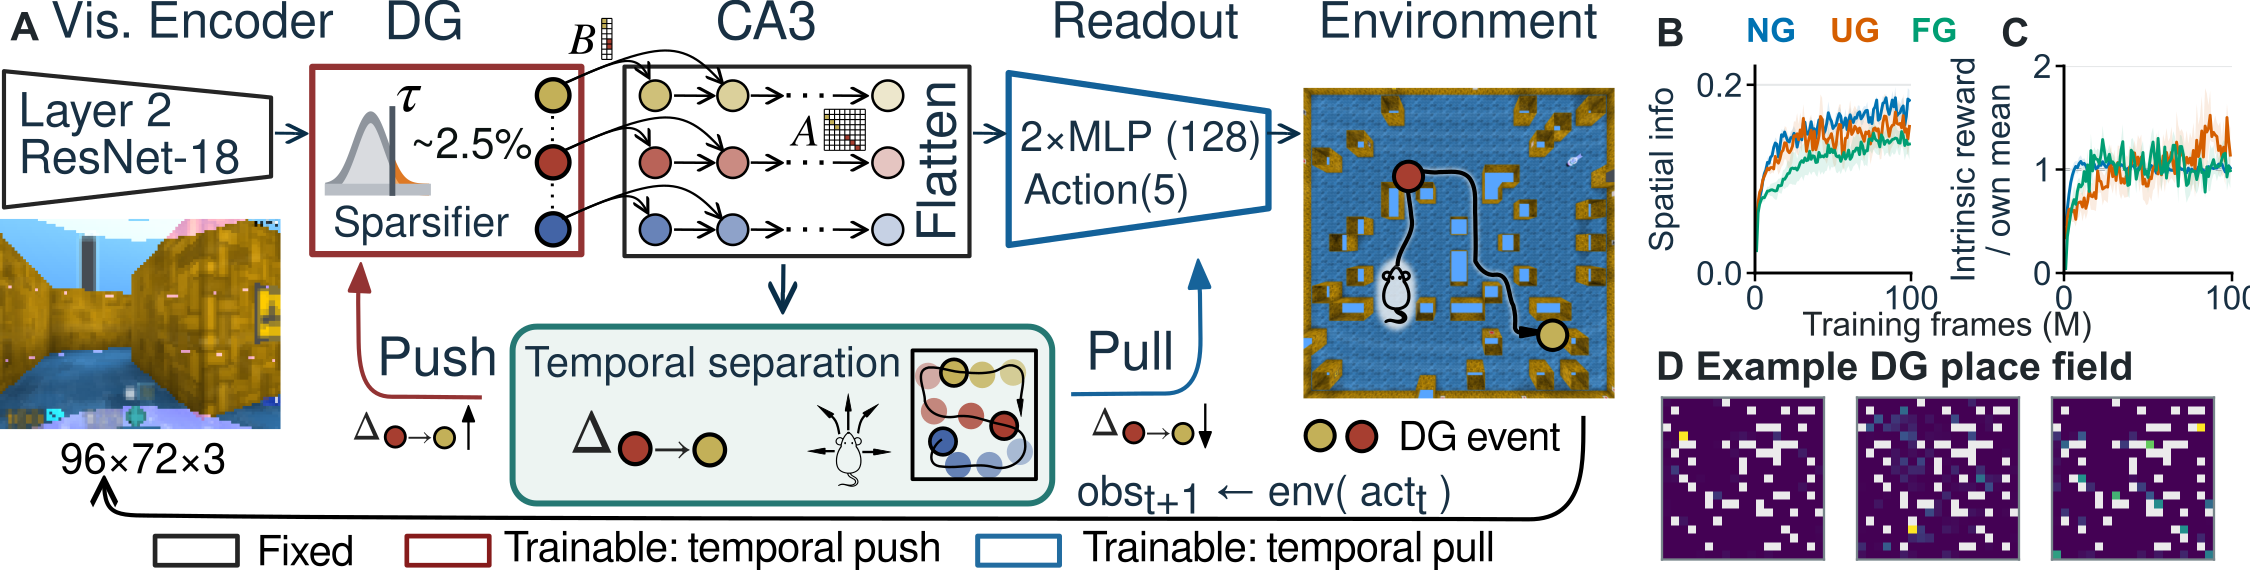
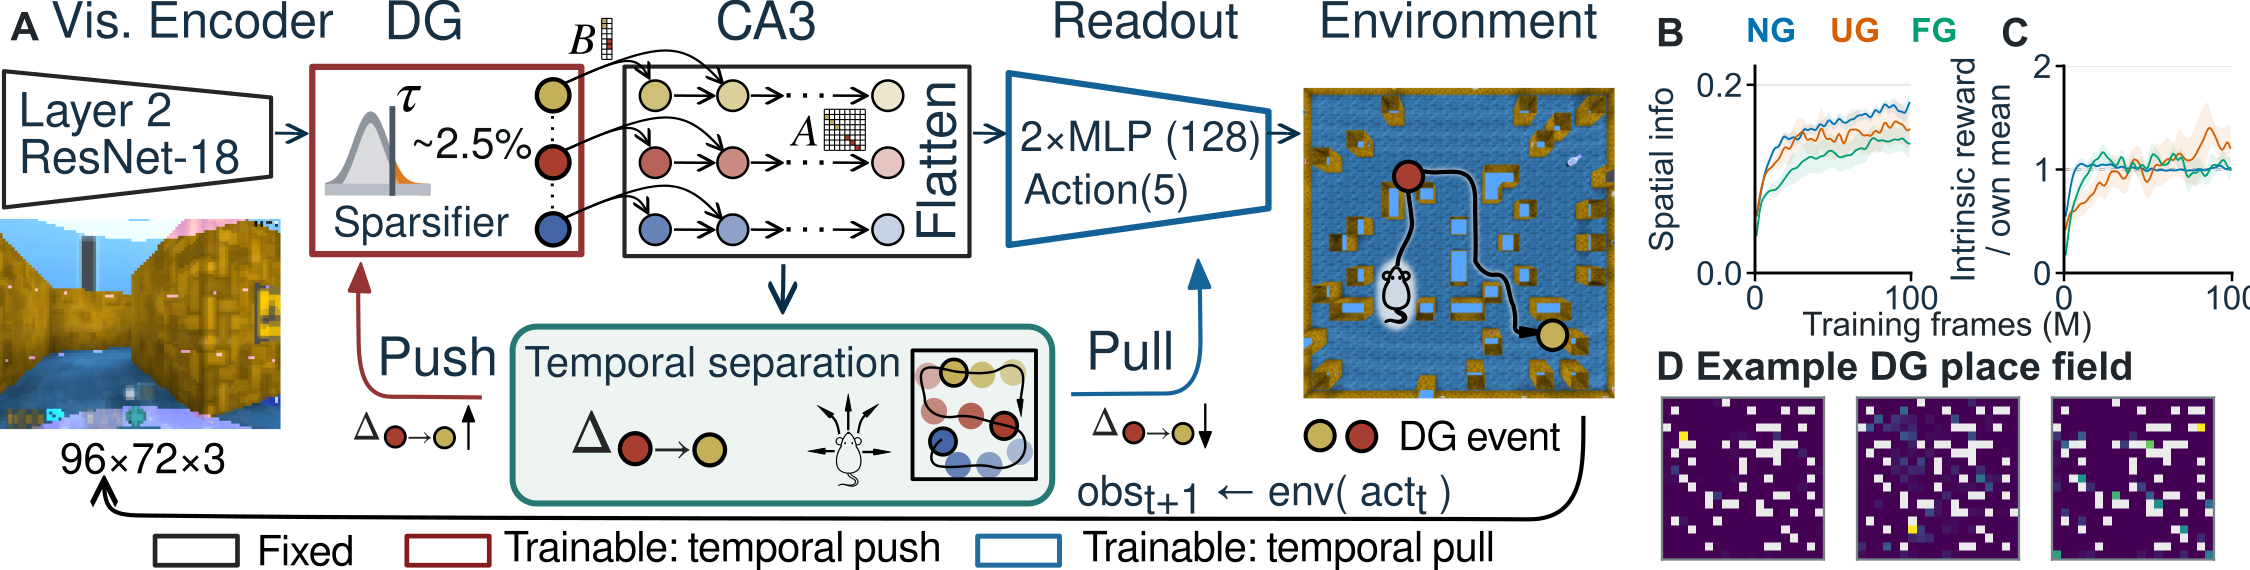
Smooth and thin Figure 1 training courses

Changed region(s): [[0.9022, 0.2088, 0.9956, 0.3877], [0.7778, 0.1789, 0.8711, 0.3579]]

diff --git a/07_abstracts/cosyne_2027_submission_draft/figure1_candidates/render_architecture_v3_course_candidate.py b/07_abstracts/cosyne_2027_submission_draft/figure1_candidates/render_architecture_v3_course_candidate.py
@@ -22,6 +22,7 @@ from matplotlib.ticker import LogFormatterMathtext, NullLocator
 import numpy as np
 import pandas as pd
 from PIL import Image
+from scipy.ndimage import gaussian_filter1d
 
 from render_architecture_with_fields import DRAFT, HERE, style
 from render_submission_panels import COLOR, SOURCES
@@ -35,6 +36,8 @@ ATLAS = HERE / "full_seed_atlases_minmax/c15_temporal_s123.png"
 UNIT_METRICS = HERE / "full_seed_atlases/terminal_unit_metrics.csv"
 SEED_METRICS = HERE / "full_seed_atlases/terminal_seed_metrics.csv"
 REWARD = ROOT / "06_experiments/results/cosyne_2027_intrinsic_reward_course/arm_summaries.csv"
+REWARD_SEEDS = REWARD.with_name("interpolated_by_seed.csv")
+ONLINE_SEEDS = ROOT / "06_experiments/results/cosyne_2027_online_wandb/interpolated_by_seed.csv"
 UNITS = (4, 1, 11)
 PEAK_CELLS_XY = {4: (2, 4), 1: (6, 15), 11: (17, 3)}
 FAMILIES = (("C01", "inapplicable", "NG"),
@@ -45,6 +48,7 @@ SVG_NS = "http://www.w3.org/2000/svg"
 XLINK_NS = "http://www.w3.org/1999/xlink"
 ARCHITECTURE_WIDTH_IN = 5.4085569
 VIS_TITLE_SHIFT_MM = 3.8
+SMOOTHING_SIGMA_M_FRAMES = 1.5
 
 
 def sha256(path: Path) -> str:
@@ -107,12 +111,14 @@ def inline_architecture(composite_svg: Path) -> None:
 
 
 def course(ax: plt.Axes, table: pd.DataFrame, metric: str, *, log: bool,
-           relative_to_mean: bool = False, thin_lines: bool = False) -> dict[str, float]:
+           relative_to_mean: bool = False, thin_lines: bool = False,
+           seed_table: pd.DataFrame | None = None) -> dict[str, float]:
     """Plot means and SEM, optionally scaled by each condition's own mean.
 
     The denominator is the mean of the 99 plotted five-seed means. Scaling
-    the mean and SEM by the same positive constant preserves the original
-    uncertainty bands and the within-condition trajectory.
+    the mean and SEM by the same positive constant preserves the within-
+    condition trajectory. When requested, smoothing happens separately for
+    each seed before re-aggregating the mean and SEM.
     """
     normalizers = {}
     if relative_to_mean:
@@ -128,6 +134,27 @@ def course(ax: plt.Axes, table: pd.DataFrame, metric: str, *, log: bool,
         mean = rows["mean"].to_numpy()
         sem = rows["sem"].to_numpy()
         denominator = float(np.mean(mean)) if relative_to_mean else 1.0
+        if seed_table is not None:
+            if not np.allclose(np.diff(x), 1, rtol=0, atol=1e-9):
+                raise ValueError(f"Smoothing requires a one-million-frame grid: {family}")
+            seeds = seed_table[(seed_table.family == family) &
+                               (seed_table.metric == metric)]
+            if "encoder_credit" in seeds:
+                seeds = seeds[(seeds.encoder_credit == "temporal") &
+                              (seeds.worker_bonus == worker)]
+            curves = seeds.pivot(index="env_steps", columns="seed", values="value")
+            if (curves.shape != (99, 5) or
+                    not np.array_equal(curves.index.to_numpy(), rows.env_steps.to_numpy()) or
+                    not np.all(np.isfinite(curves.to_numpy()))):
+                raise ValueError(f"Incomplete seed curves: {family}, {metric}")
+            if (not np.allclose(curves.mean(axis=1), mean, rtol=0, atol=1e-8) or
+                    not np.allclose(curves.sem(axis=1), sem, rtol=0, atol=1e-8)):
+                raise ValueError(f"Seed curves disagree with archived summary: {family}, {metric}")
+            smoothed = gaussian_filter1d(curves.to_numpy(),
+                                         sigma=SMOOTHING_SIGMA_M_FRAMES,
+                                         axis=0, mode="nearest")
+            mean = smoothed.mean(axis=1)
+            sem = smoothed.std(axis=1, ddof=1) / np.sqrt(smoothed.shape[1])
         if not np.isfinite(denominator) or denominator <= 0:
             raise ValueError(f"Invalid reward normalization: {family}")
         normalizers[family] = denominator
@@ -135,10 +162,10 @@ def course(ax: plt.Axes, table: pd.DataFrame, metric: str, *, log: bool,
         sem = sem / denominator
         if log and np.any(mean - sem <= 0):
             raise ValueError(f"Log course has nonpositive uncertainty bound: {family}")
-        ax.plot(x, mean, color=COLOR[family], lw=0.7 if thin_lines else 1.15,
+        ax.plot(x, mean, color=COLOR[family], lw=0.45 if thin_lines else 1.15,
                 label=label)
         ax.fill_between(x, mean - sem, mean + sem,
-                        color=COLOR[family], alpha=0.12 if thin_lines else 0.17,
+                        color=COLOR[family], alpha=0.10 if thin_lines else 0.17,
                         linewidth=0)
     ax.set_xlim(0, 100)
     ax.set_xticks((0, 100))
@@ -209,6 +236,8 @@ def main(*, relative_reward: bool = False) -> None:
     metrics = verify_selection()
     online = pd.read_csv(SOURCES["online"])
     reward = pd.read_csv(REWARD)
+    online_seeds = pd.read_csv(ONLINE_SEEDS) if relative_reward else None
+    reward_seeds = pd.read_csv(REWARD_SEEDS) if relative_reward else None
     tiles = field_tiles()
 
     fig = plt.figure(figsize=SIZE_IN, facecolor="white")
@@ -233,7 +262,7 @@ def main(*, relative_reward: bool = False) -> None:
     ax_info = fig.add_axes([info_left / SIZE_IN[0], 0.99 / 1.9,
                             info_width / SIZE_IN[0], course_height / 1.9])
     course(ax_info, online, "spatial_information", log=False,
-           thin_lines=relative_reward)
+           thin_lines=relative_reward, seed_table=online_seeds)
     if relative_reward:
         ax_info.set_ylabel("Spatial info", fontsize=8)
     legend = ((5.82, 6.10, 6.37), 1.84) if relative_reward else (
@@ -251,7 +280,8 @@ def main(*, relative_reward: bool = False) -> None:
                               0.56 / SIZE_IN[0], course_height / 1.9])
     reward_normalizers = course(ax_reward, reward, "intrinsic_mean", log=True,
                                 relative_to_mean=relative_reward,
-                                thin_lines=relative_reward)
+                                thin_lines=relative_reward,
+                                seed_table=reward_seeds)
     fig.text(6.49 / SIZE_IN[0], 0.81 / 1.9, "Training frames (M)",
              ha="center", va="center", fontsize=8, color="#20272C")
 
@@ -303,6 +333,18 @@ def main(*, relative_reward: bool = False) -> None:
                                        ATLAS, UNIT_METRICS, SEED_METRICS)},
     }
     if relative_reward:
+        manifest["course_smoothing"] = {
+            "applies_to": ["B spatial information", "C intrinsic reward"],
+            "method": "Gaussian filter on each seed's 1-million-frame grid before recomputing mean and SEM",
+            "sigma_million_frames": SMOOTHING_SIGMA_M_FRAMES,
+            "edge_mode": "nearest",
+            "line_width_points": 0.45,
+            "band_alpha": 0.10,
+        }
+        manifest["source_sha256"].update({
+            str(path.relative_to(ROOT)): sha256(path)
+            for path in (ONLINE_SEEDS, REWARD_SEEDS)
+        })
         manifest["reward_display"] = {
             "transformation": "five-seed mean and SEM at each training point divided by the arithmetic mean of the 99 five-seed means for that condition",
             "normalizer_by_family": reward_normalizers,

diff --git a/07_abstracts/cosyne_2027_submission_draft/figure1_candidates/05_architecture_v3_relative_reward_README.md b/07_abstracts/cosyne_2027_submission_draft/figure1_candidates/05_architecture_v3_relative_reward_README.md
@@ -2,13 +2,17 @@
 
 [SVG](05_architecture_v3_relative_reward.svg) · [Print PDF](05_architecture_v3_relative_reward.pdf) · [PNG preview](05_architecture_v3_relative_reward.png) · [Source manifest](05_architecture_v3_relative_reward_manifest.json) · [Original absolute-reward candidate](04_architecture_v3_dg_reward_fields_README.md)
 
-This candidate keeps the 7.5 × 1.9-inch canvas, architecture, and three place-field examples of candidate 04. Panels B and C have taller axes, thinner training curves, and vertical axis labels in place of their titles. The submitted TeX figure is unchanged.
+This candidate keeps the 7.5 × 1.9-inch canvas, architecture, and three place-field examples of candidate 04. Panels B and C have taller axes, 0.45-point training curves, and vertical axis labels in place of their titles. The submitted TeX figure is unchanged.
+
+## Display smoothing in B and C
+
+Each of the five seed curves is lightly smoothed on the one-million-frame grid with a Gaussian kernel of 1.5 grid-point standard deviation (1.5 million frames; nearest-value treatment at the ends). The plotted mean and SEM are recomputed across these five smoothed curves. This is a display transformation: neighboring points become correlated, and the raw seed data and original candidate 04 remain available for inspection. The five-seed summaries were independently reproduced from the archived seed tables before smoothing.
 
 ## Panel C
 
-Each curve is the five-seed arithmetic mean of intrinsic reward per step at 99 points from 1 to 99 million training frames. For each architecture separately, the renderer divides its mean curve and SEM band by the **arithmetic mean of those 99 plotted means**. The linear vertical axis therefore shows fold of that architecture's own mean, and the dotted line marks one fold. This constant scaling preserves the shape of each mean curve and its original SEM band while removing absolute reward units from the comparison. The denominator is treated as a descriptive fixed scaling constant, so the band is not an uncertainty interval for it. The three reward signals are architecture-dependent; curve height here describes within-architecture reward dynamics, not absolute reward magnitude or navigation performance.
+Each curve starts from the five-seed arithmetic mean of intrinsic reward per step at 99 points from 1 to 99 million training frames. For each architecture separately, the renderer divides its smoothed mean curve and recomputed SEM band by the **arithmetic mean of the original 99 plotted means**. The linear vertical axis therefore shows fold of that architecture's own unsmoothed training-course mean, and the dotted line marks one fold. The denominator is treated as a descriptive fixed scaling constant, so the band is not an uncertainty interval for it. The three reward signals are architecture-dependent; curve height here describes within-architecture reward dynamics, not absolute reward magnitude or navigation performance.
 
-Suggested concise caption: **C,** Intrinsic reward divided by each architecture's own training-course mean, on a linear axis. Lines show five-seed means and shading shows ± SEM after the same within-architecture scaling; the dotted line marks one fold.
+Suggested concise caption: **C,** Intrinsic reward divided by each architecture's own unsmoothed training-course mean, on a linear axis. In B and C, seed curves were lightly Gaussian-smoothed across training (1.5 million-frame standard deviation) before computing the displayed five-seed mean ± SEM. The dotted line in C marks one fold.
 
 ## Regeneration
 

diff --git a/infra.md b/infra.md
@@ -2429,10 +2429,12 @@ For each finding, record:
   A separate [relative-reward variant](07_abstracts/cosyne_2027_submission_draft/figure1_candidates/05_architecture_v3_relative_reward_README.md)
   divides each condition's plotted five-seed mean and SEM by the arithmetic
   mean of its own 99 training-point means, recording the factors in the
-  manifest. This makes the
-  time courses inspectable on one axis without an absolute-scale comparison;
-  label the denominator, the one-fold reference, and the descriptive treatment
-  of its uncertainty whenever reusing this view.
+  manifest. This makes the time courses inspectable on one axis without an
+  absolute-scale comparison. The archived seed curves reproduce the stored
+  mean and SEM, allowing a 1.5-million-frame Gaussian display smoothing to
+  be applied per seed before recomputing the bands, rather than smoothing an
+  already-aggregated SEM. Future reuse should label the denominator, the
+  one-fold reference, and the descriptive treatment of its uncertainty.
   The next page-width trial placed three same-run maps in the first row's
   unused right margin, moved the push/pull rows closer, and spread the four
   result groups in each row without resizing them. This reduced the figure
